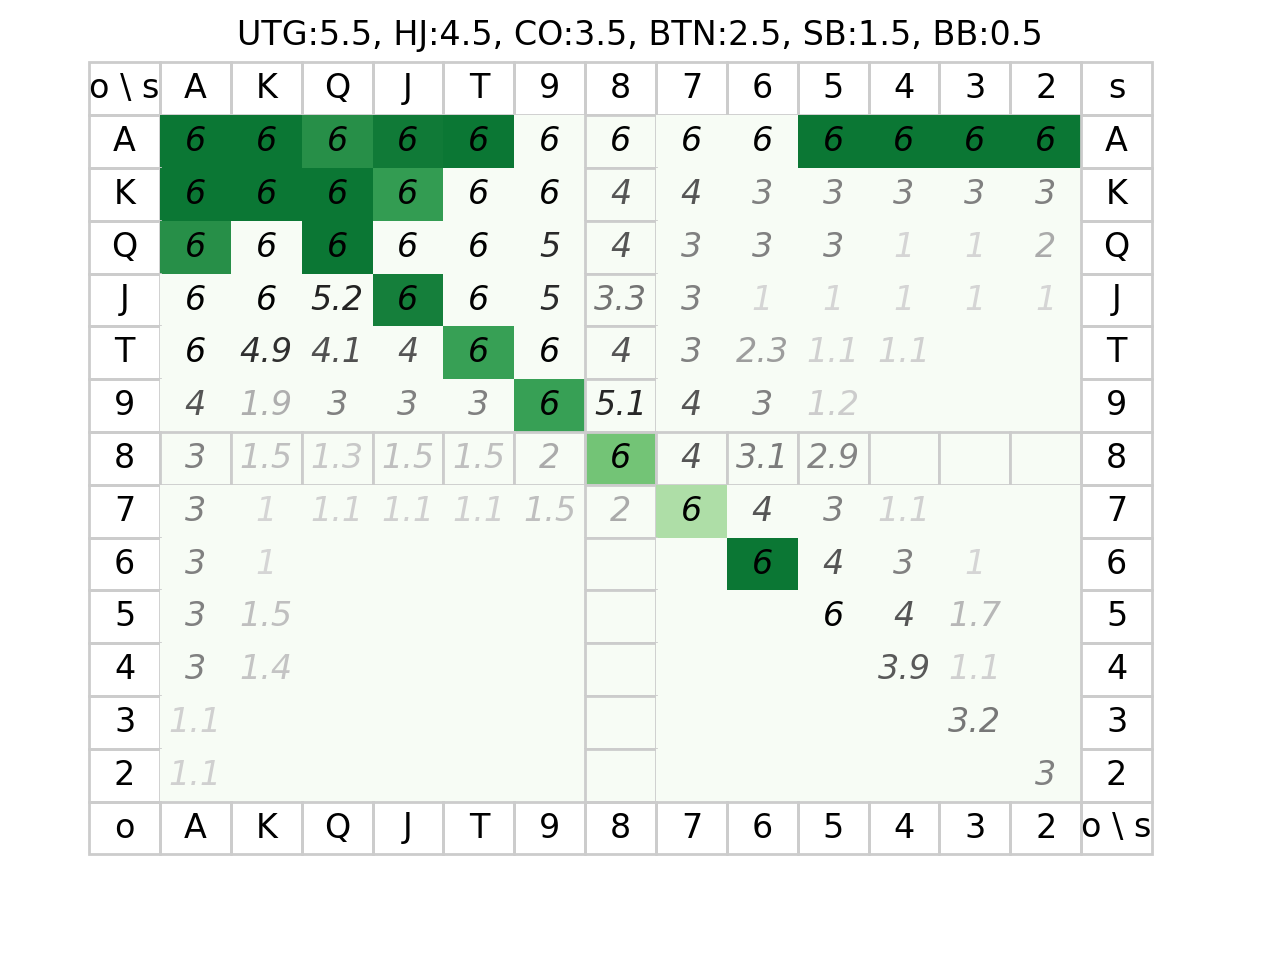
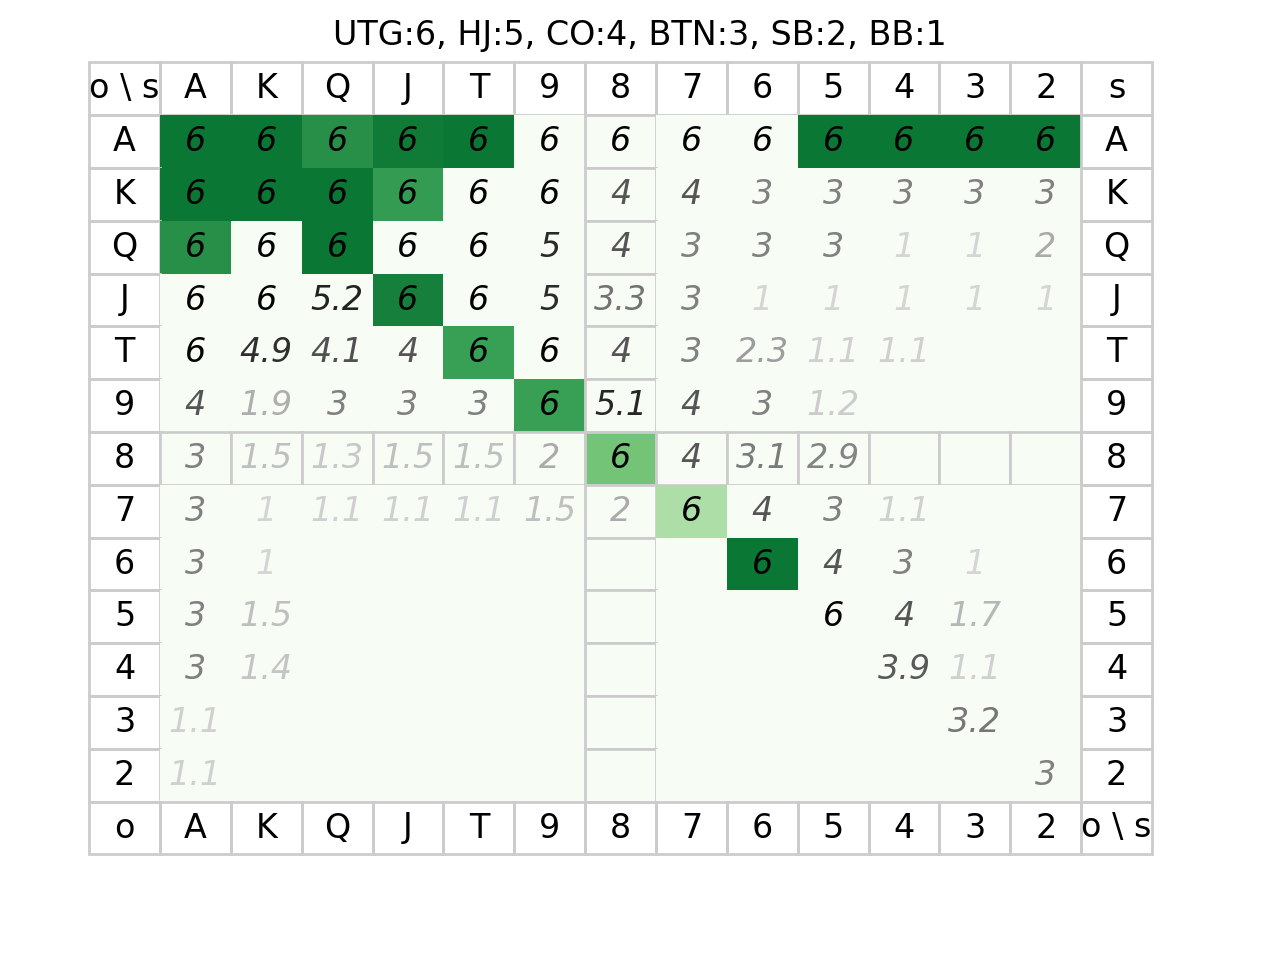
utg

Changed region(s): [[0.1875, 0.0, 0.5, 0.0625], [0.5625, 0.0, 0.8125, 0.0625]]

diff --git a/ptable.py b/ptable.py
@@ -75,24 +75,29 @@ def random_flop_get(power, reraise=False):
         return a0, a1
 
 def print_stat():
-    if random.random() < 0.1:
-        print("### リンプイン ###")
-    print("相手のレイズ", end="：")
-    for i in range(3):
-        ok = ['ブラフ', "真"][int(random.random() < 0.7)]
-        print(f"{ok} ", end="")
-    print()
+    # if random.random() < 0.1:
+    #     print("### リンプイン ###")
+    # print("相手のレイズ", end="：")
+    # for i in range(3):
+    #     ok = ['ブラフ', "真"][int(random.random() < 0.7)]
+    #     print(f"{ok} ", end="")
+    # print()
     r0, r1 = random_flop_get(0, True)
-    print(f"リレイズ: {r0} {r1}")
+    print(f"{r0} {r1} : リレイズ")
     for i in range(6):
         power = itonum[i] + random.random()
         r0, r1 = random_flop_get(power)
-        text = f"{itoseat[i]}({power:.1f}): {r0} {r1}"
+        text = f"{r0} {r1} : {itoseat[i]}({power:.1f})"
         if itoseat[i] == "SB":
             if random.random() < 0.5: text += " CALL"
             else: text += " BET"
         print(text)
     # print("BB: 相手の確率があればコール")
+    # つまり、これ以上の倍率でいくと相手が乗ってしまう、ので、先に降ろす
+    # フロップ時点(あと1枚で系)
+    # 1/4 (フラッシュ)
+    # 1/6 (ストレート)
+    # 1/7 (任意の一枚がほしい)
 
 def pick_raise(x, y):
     key = to_key(x, y)
@@ -124,7 +129,7 @@ def plot():
     plt.rcParams['font.family'] = 'Courier'
     plt.tick_params(labelsize=30)
     fig, ax = plt.subplots()
-    fig.suptitle('UTG:5.5, HJ:4.5, CO:3.5, BTN:2.5, SB:1.5, BB:0.5')
+    fig.suptitle('UTG:6, HJ:5, CO:4, BTN:3, SB:2, BB:1')
     ax.set_axis_off()
     tb = Table(ax, bbox=[0,0,1,1])
     size = 1.0 / 13.0

diff --git a/readme.md b/readme.md
@@ -2,5 +2,5 @@
 
 ![](./docs/Figure_2.png)
 
-- BB は相手の確率があればコール
+- 相手の確率があればコール
 - 色が薄いものは、コール
